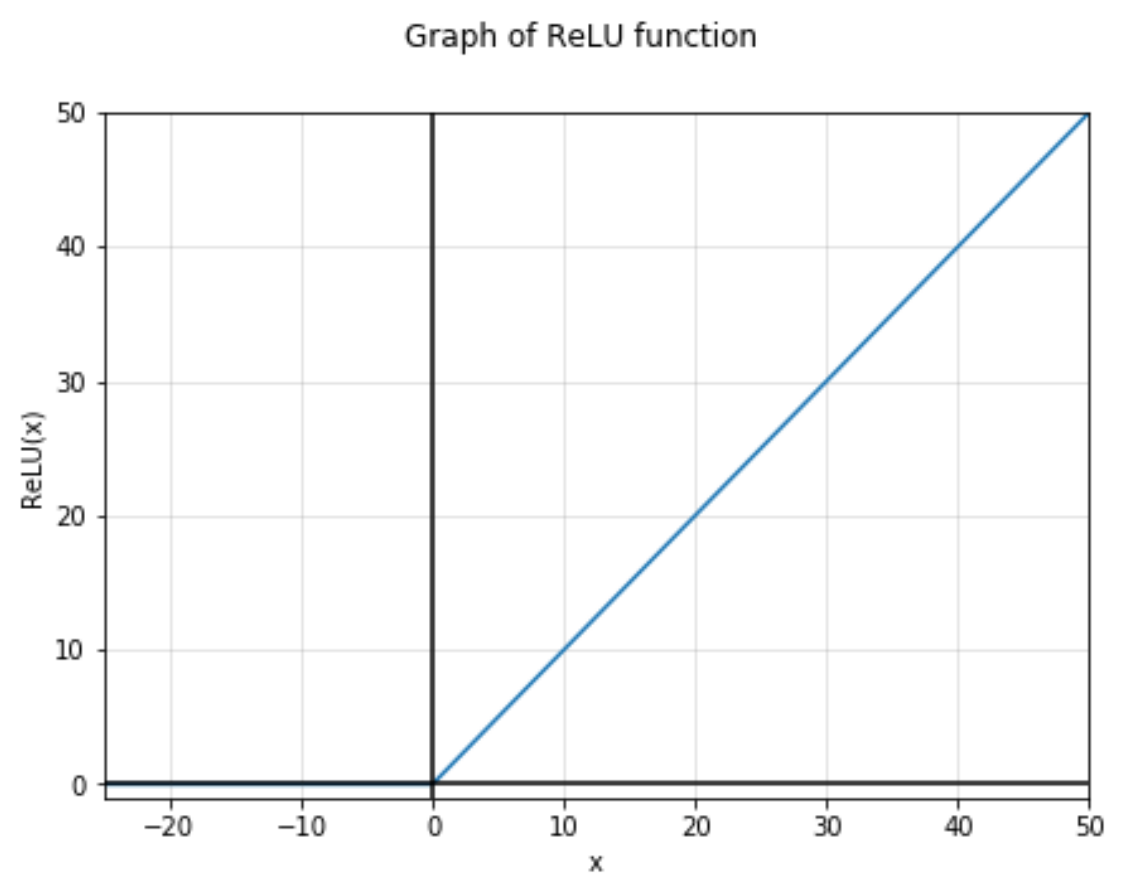
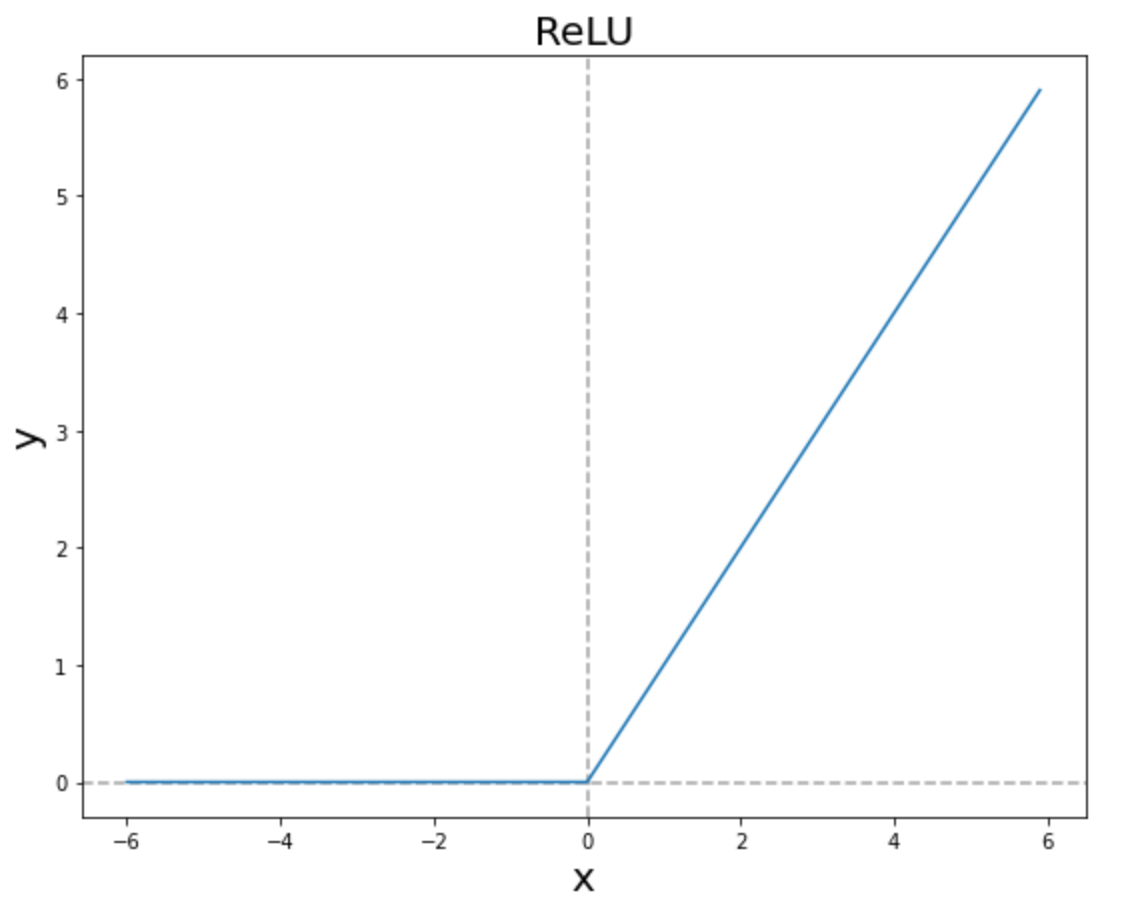
deep_learning

diff --git a/09_Deep_Learning/Lecture_content/ReLU_function.md b/09_Deep_Learning/Lecture_content/ReLU_function.md
@@ -1,0 +1,69 @@
+# 1. 렐루 함수(ReLU function) 의미
+
+- 렐루 함수(ReLU function)는 우리말로 선형 함수라고 한다.
+- 간단히 말하자면 $+$ / $-$ 가 반복되는 신호에서 $-$흐름을 차단하는 의미이다.
+- 은닉층에서 많이 사용하는 함수이다.
+- 렐루 함수(ReLU function)는 은닉층에 어떤 활성화 함수를 써야 할지 모를 때도 사용한다.
+
+# 2. 렐루 함수(ReLU function) 수식
+$h(x) = \begin{cases} x \\\ (x>0) \\ 0 \\\ (x\leq 0)\end{cases}$
+
+- 이 수식을 보면 양수면 자기 자신을 반환하고, 음수면 0을 반환한다.
+
+# 3. 렐루 함수(ReLU function) 코드
+```python
+import numpy as np
+
+# ReRU함수
+def ReLU(x):
+    return np.maximum(0, x)
+```
+
+- 이 코드는 단순하게 최댓값 함수를 사용하여 지금 들어온 값이 0보다 크면 자기 자신을 반환하고, 0보다 작으면 최댓값인 0을 반환하는 함수을 나타낸다.
+
+```python
+import matplotlib.pyplot as plt
+
+x = np.arange(-6.0, 6.0, 0.1)
+y = ReLU(x)
+
+fig = plt.figure(figsize=(9, 7))
+fig.set_facecolor('white')
+
+plt.title('ReLU', fontsize=20)
+plt.xlabel('x', fontsize=20)
+plt.ylabel('y', fontsize=20)
+plt.axvline(0.0, color='gray', linestyle='--', alpha=0.7)
+plt.axhline(0.0, color='gray', linestyle='--', alpha=0.7)
+plt.plot(x, y)
+
+plt.show()
+```
+## 4. 렐루 함수(ReLU function) 코드 결과
+
+![alt text](./Picture/ReLU_function.png)
+
+# 5. 렐루 함수(ReLU function)를 은닉층에서 많이 쓰이는 이유
+
+## 1. `기울기 소실(Vanishing Gradient) 문제가 발생하지 않는다.`
+
+- 렐루 함수(ReLU function)는 출력의 범위가 넓고, 양수인 경우 자기 자신을 그대로 반환하기 때문에 `기울기 소실(Vanishing Gradient) 문제가 발생하지 않는다.
+
+## 2. `기존 활성화 함수에 비해 속도가 매우 빠르다.`
+
+- 렐루 함수의 공식은 양수면 자기 자신을 반환하고, 음수면 0을 반환하다보니, 경사 하강시 다른 활성화 함수에 비해 `학습 속도가 빠르다.`
+- 렐루 함수는 편미분(기울기)시 1로 일정하므로, `가중치 업데이트 속도가 매우 빠르다.`
+
+# 6. 렐루 함수의 한계점
+
+![alt text](./Picture/ReLU_function.png)
+
+- 렐루 함수의 그래프를 보면, 입력값이 음수이면 출력값이 0으로 나온다.
+- 가중치 업데이트가 안 되는 현상이 발생할 수 있다.
+- `가중치가 업데이트되는 과정에서 가중치 합이 음수가 되는 순간 ReLU 함수는 0을 반환하기 때문에 해당 뉴런은 그 이후로 0만 반환하는 아무것도 변하지 않는 현상이 나타날 수 있는데 이것을 죽어가는 렐루(Dying ReLU) 현상이라고 한다.`
+- `렐루 함수는 기울기 소실 문제 방지를 위해 사용되는 활성화 함수이기 때문에 은닉층에서만 사용하는 것을 추천한다.`
+- 렐루 함수의 출력값은 양수 또는 0이며, ReLU 기울기도 0또는 1이므로, 둘 다 양수이다.
+- 따라서 `가중치 업데이트 시 지그제그로 최적의 가중치를 찾아가는 지그재그 현상이 나타난다.`
+- ReLU는 0에서 미분이 불가능하다.(미분이 불가능할지라도 출력값 문제가 아니어서 0에 걸릴 확률이 적기 때문에 이를 무시하고 사용해도 무방하다.)
+- 렐루 함수가 입력값이 0일 때, 기울기가 0에 수렴해 가중치 업데이트가 안 되는 현상이 발생한다고는 하지만, 성능상 문제가 없다.
+
